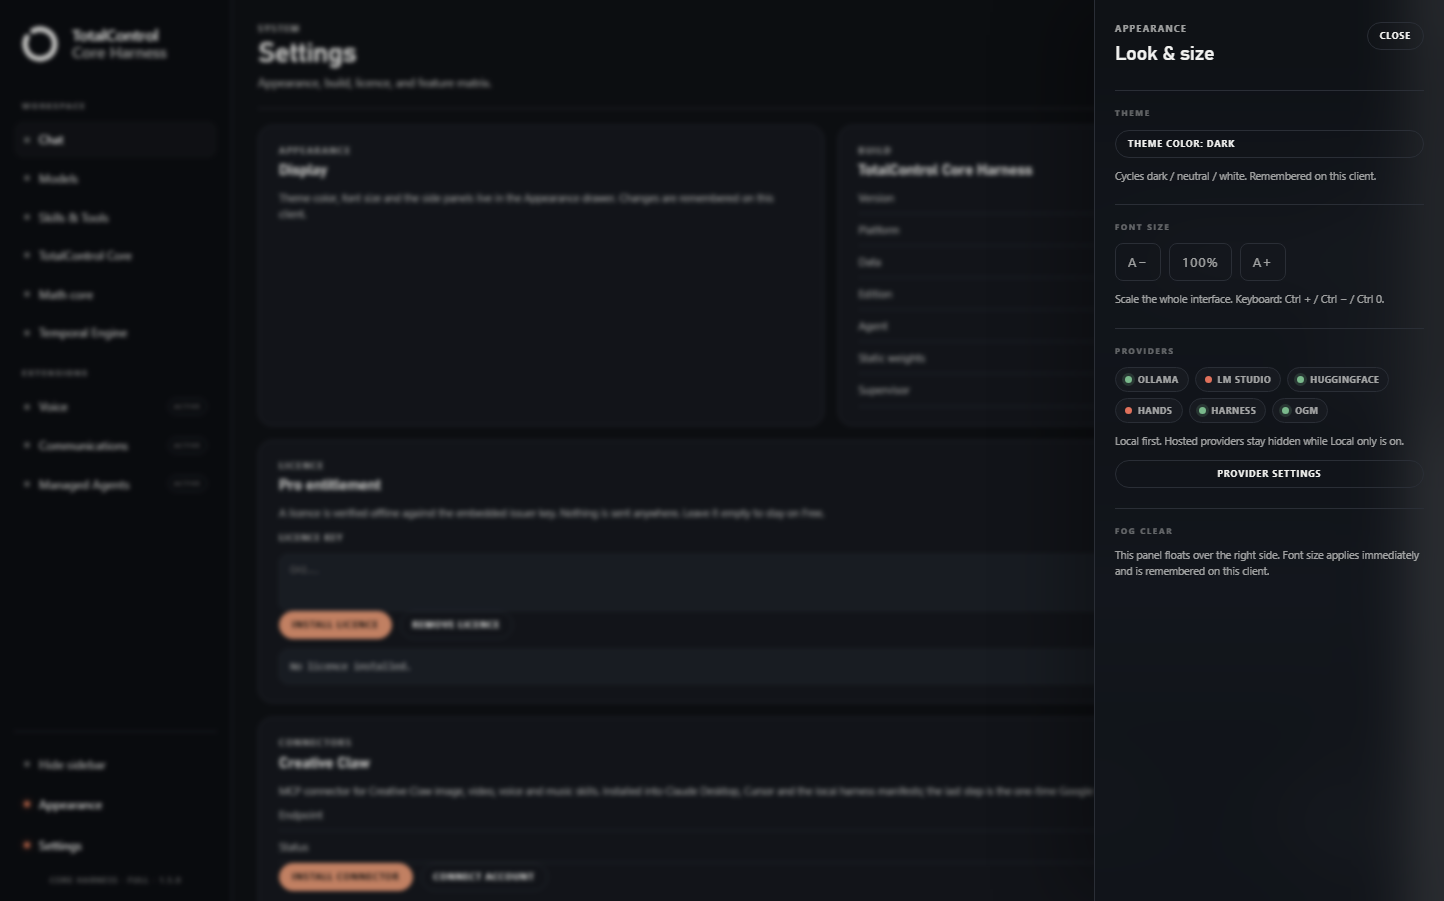
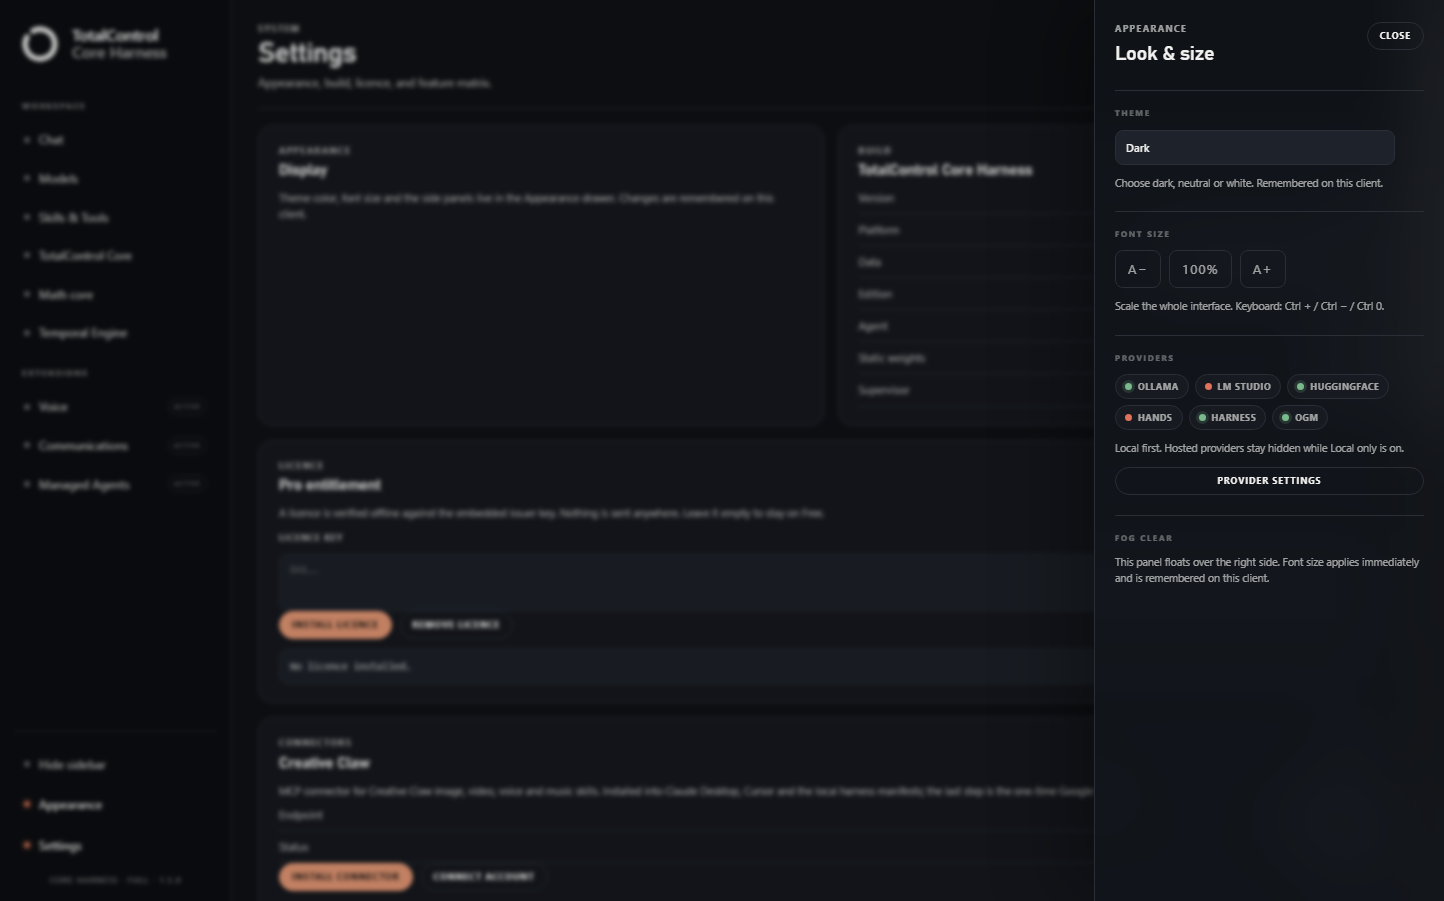
Final harness screens refresh: neutral start, black shots, theme dropdown non-free

diff --git a/screens.html b/screens.html
@@ -1,5 +1,5 @@
 <!DOCTYPE html>
-<html lang="en">
+<html lang="en" data-site-theme="neutral">
 <head>
 <meta charset="UTF-8">
 <meta name="viewport" content="width=device-width, initial-scale=1">
@@ -51,9 +51,9 @@
   main h1,main h2,main h3{color:var(--st-ink) !important}
   main p{color:var(--st-muted)}
   .dl{border-top-color:var(--st-line)}
-  .dl .prod{border:1px solid var(--st-line);background:var(--st-card);backdrop-filter:blur(18px);-webkit-backdrop-filter:blur(18px);color:var(--st-ink);box-shadow:var(--st-shadow)}
-  .dl .prod h2{color:var(--st-ink)}
-  .dl .prod p,.dl .incl li{color:var(--st-muted)}
+  .dl .prod{border:1px solid var(--st-line) !important;background:var(--st-card) !important;backdrop-filter:blur(18px);-webkit-backdrop-filter:blur(18px);color:var(--st-ink) !important;box-shadow:var(--st-shadow) !important}
+  .dl .prod h2{color:var(--st-ink) !important}
+  .dl .prod p,.dl .incl li{color:var(--st-muted) !important}
   .dl .sub{color:var(--st-muted)}
   .btn{appearance:none;text-decoration:none;font:600 13px Inter,"Segoe UI",sans-serif;padding:11px 18px;border-radius:8px;justify-content:center;border:1px solid var(--st-line);background:var(--st-btn);backdrop-filter:blur(12px);-webkit-backdrop-filter:blur(12px);color:var(--st-ink);display:inline-flex;align-items:center;gap:6px;cursor:pointer}
   .btn:hover{border-color:#D97757;color:var(--st-ink)}
@@ -64,14 +64,14 @@
   .dl .prod .btn:not(.primary):hover{border-color:#D97757 !important;color:var(--st-ink) !important}
   footer.site{color:var(--st-muted)}
   .voice-split{display:grid;grid-template-columns:1.35fr .65fr;gap:20px;margin-top:24px;align-items:stretch}
-  .voice-controls{background:var(--st-card);border:1px solid var(--st-line);border-radius:18px;padding:24px;color:var(--st-ink);backdrop-filter:blur(18px);-webkit-backdrop-filter:blur(18px);box-shadow:var(--st-shadow)}
+  .voice-controls{background:var(--st-card) !important;border:1px solid var(--st-line) !important;border-radius:18px;padding:24px;color:var(--st-ink) !important;backdrop-filter:blur(18px);-webkit-backdrop-filter:blur(18px);box-shadow:var(--st-shadow)}
   .voice-controls .eyebrow{color:#d97757}
-  .voice-controls h3{font-size:22px;line-height:1.15;margin:8px 0 14px;letter-spacing:-.02em;color:var(--st-ink)}
+  .voice-controls h3{font-size:22px;line-height:1.15;margin:8px 0 14px;letter-spacing:-.02em;color:var(--st-ink) !important}
   .voice-controls ul{list-style:none;margin:0;padding:0;display:grid;gap:9px}
-  .voice-controls li{position:relative;padding-left:17px;font-size:13px;line-height:1.45;color:var(--st-muted)}
+  .voice-controls li{position:relative;padding-left:17px;font-size:13px;line-height:1.45;color:var(--st-muted) !important}
   .voice-controls li::before{content:"";position:absolute;left:0;top:.55em;width:6px;height:6px;border-radius:50%;background:var(--st-dot)}
   .voice-controls li.on::before{background:#d97757;box-shadow:0 0 7px rgba(217,119,87,.55)}
-  .voice-controls .foot{margin-top:16px;font-size:11px;line-height:1.5;color:var(--st-muted);letter-spacing:.04em}
+  .voice-controls .foot{margin-top:16px;font-size:11px;line-height:1.5;color:var(--st-muted) !important;letter-spacing:.04em}
   .site-ap-btn{position:fixed;right:18px;bottom:18px;z-index:120;appearance:none;border:1px solid rgba(255,255,255,.18);background:rgba(18,20,22,.72);backdrop-filter:blur(18px);-webkit-backdrop-filter:blur(18px);color:#F2F2F0;border-radius:99px;padding:10px 16px;font:600 9px Inter,sans-serif;letter-spacing:.16em;text-transform:uppercase;cursor:pointer;box-shadow:0 12px 40px rgba(0,0,0,.35)}
   .site-ap-btn::before{content:"";display:inline-block;width:6px;height:6px;border-radius:50%;background:#D97757;margin-right:8px;vertical-align:1px;box-shadow:0 0 7px rgba(217,119,87,.6)}
   .site-ap-backdrop{position:fixed;top:58px;left:0;right:0;bottom:0;background:rgba(0,0,0,.25);backdrop-filter:blur(2px);z-index:130;opacity:0;pointer-events:none;transition:opacity .2s}
@@ -87,7 +87,7 @@
   .site-select{appearance:none;width:100%;background:rgba(255,255,255,.06);border:1px solid rgba(255,255,255,.18);color:#F2F2F0;border-radius:8px;padding:11px 12px;font:600 12px Inter,sans-serif;cursor:pointer;outline:none}
   .site-select option{background:#141619;color:#F2F2F0}
   .site-ap .note{font-size:10.5px;line-height:1.5;color:rgba(242,242,240,.55);margin:0}
-  html[data-site-theme="dark"] body{background:radial-gradient(1000px 700px at 12% -10%, rgba(217,119,87,.13), transparent 60%),radial-gradient(900px 650px at 88% 8%, rgba(255,255,255,.075), transparent 60%),#090A0B !important;color:#F2F2F0 !important}
+  main .ds-text-body,.intro p{color:var(--st-muted) !important}\n  .hero .eyebrow{color:#C4684B !important}\n  html[data-site-theme="dark"] body{background:radial-gradient(1000px 700px at 12% -10%, rgba(217,119,87,.13), transparent 60%),radial-gradient(900px 650px at 88% 8%, rgba(255,255,255,.075), transparent 60%),#090A0B !important;color:#F2F2F0 !important}
   html[data-site-theme="neutral"] body{background:radial-gradient(1000px 700px at 12% -10%, rgba(217,119,87,.14), transparent 60%),radial-gradient(900px 650px at 88% 8%, rgba(255,255,255,.20), transparent 60%),#8D9199 !important;color:#14161A !important}
   html[data-site-theme="white"] body{background:radial-gradient(1000px 700px at 12% -10%, rgba(217,119,87,.09), transparent 60%),radial-gradient(900px 650px at 88% 8%, rgba(255,255,255,.7), transparent 60%),#FAF9F5 !important;color:#141413 !important}
   html[data-site-theme="neutral"] .site-ap-btn,html[data-site-theme="white"] .site-ap-btn{background:rgba(18,20,22,.82)}
@@ -123,7 +123,7 @@
       <div class="intro">
         <p class="ds-text-body">The finished TotalControl harness in the Core Harness client. Free is the
           build going online now: microphone input only, with no hands, no voice output and no crawler.
-          Black client shown; Free and Paid start neutral.</p>
+          Black client shown; Free and Paid both start neutral.</p>
       </div>
       <div class="hero-cta">
         <a class="btn primary" href="https://github.com/oroboroslabs-ai/anthropic/releases/download/totalcontrol-core-harness-v1.5.0/TotalControl-Core-Harness-Free-1.5.0.exe">↓&nbsp; Download Free 1.5.0 · Windows</a>
@@ -136,17 +136,17 @@
   <div class="screens-hero">
     <div class="shotgrid">
       <figure class="shot">
-        <img src="assets/screens/full-chat.png" alt="TotalControl Core Harness neutral first-run chat with left rail and Write panel">
+        <img src="assets/screens/full-chat.png" alt="TotalControl Core Harness black client chat with left rail and Write panel">
         <figcaption class="cap"><b>BLACK · CLIENT</b><span>chat</span></figcaption>
       </figure>
       <figure class="shot">
-        <img src="assets/screens/full-appearance.png" alt="TotalControl Core Harness neutral with left rail and fog-clear appearance panel open">
+        <img src="assets/screens/full-appearance.png" alt="TotalControl Core Harness black with left rail and fog-clear appearance panel open">
         <figcaption class="cap"><b>BLACK · BOTH PANELS</b><span>rail + appearance</span></figcaption>
       </figure>
     </div>
 
     <figure class="shot white">
-      <img src="assets/screens/full-chat.png" alt="TotalControl Core Harness neutral first-run chat screen">
+      <img src="assets/screens/full-chat.png" alt="TotalControl Core Harness black client chat screen">
       <figcaption class="cap"><b>BLACK · CHAT</b><span>chat</span></figcaption>
     </figure>
   </div>
@@ -250,17 +250,17 @@
     <select id="siteTheme" class="site-select" title="Theme color">
       <option value="dark">Dark</option>
       <option value="neutral">Neutral</option>
-      <option value="white">White</option>
     </select>
-    <p class="note">All three theme selections. Remembered in this browser. Free has no theme menu.</p>
+    <p class="note">Dark or neutral. Silver is the start. Remembered in this browser. Free has no theme menu.</p>
   </div>
 </aside>
 <script>
 (function () {
   var key = "oa.siteTheme";
   var root = document.documentElement;
-  var saved = "dark";
-  try { saved = localStorage.getItem(key) || "dark"; } catch (e) {}
+  var saved = "neutral";
+  try { saved = localStorage.getItem(key) || "neutral"; } catch (e) {}
+  if (saved === "white") saved = "neutral";
   root.dataset.siteTheme = saved;
   var sel = document.getElementById("siteTheme");
   if (sel) {
@@ -282,6 +282,14 @@
 </script><script src="/shared-header.js" defer></script>
 </body>
 </html>
+
+
+
+
+
+
+
+
 
 
 

diff --git a/shared-header.css b/shared-header.css
@@ -36,10 +36,12 @@ html.light #unifiedHeader nav a::before { background: #B8B5AD; }
 html.light #unifiedHeader nav a:hover::before, html.light #unifiedHeader nav a.uh-here::before { background: #C4684B; box-shadow: 0 0 6px rgba(196,104,75,.45); }
 #unifiedHeader nav a:hover { color: var(--uh-text) !important; background: var(--uh-line) !important; }
 #unifiedHeader nav a.uh-here { color: var(--uh-accent) !important; background: var(--uh-soft) !important; }
-#unifiedHeader .uh-lite { appearance: none; border: 1px solid rgba(110,150,235,.4); background: rgba(46,92,184,.14); color: var(--uh-blue); font: 600 10px 'Inter', -apple-system, BlinkMacSystemFont, 'Segoe UI', sans-serif; letter-spacing: .12em; padding: 7px 12px; border-radius: 8px; cursor: pointer; flex: 0 0 auto; box-shadow: inset 0 1px 0 rgba(255,255,255,.12); }
-#unifiedHeader .uh-lite:hover { background: rgba(46,92,184,.3); }
-html.light #unifiedHeader .uh-lite { background: rgba(44,90,138,.08); border-color: rgba(44,90,138,.4); color: #2C5A8A; }
-html.light #unifiedHeader .uh-lite:hover { background: rgba(44,90,138,.16); }
+#unifiedHeader .uh-lite { appearance: none; border: 0; background: transparent; color: var(--uh-muted); font: 600 9.5px/1.1 'Inter', -apple-system, BlinkMacSystemFont, 'Segoe UI', sans-serif; letter-spacing: .015em; padding: 7px 10px 7px 16px; border-radius: 7px; cursor: pointer; flex: 0 0 auto; box-shadow: none; position: relative; }
+#unifiedHeader .uh-lite::before { content: ""; position: absolute; left: 6px; top: 50%; width: 4px; height: 4px; margin-top: -2px; border-radius: 50%; background: #5C5C58; transition: background .16s ease, box-shadow .16s ease; }
+#unifiedHeader .uh-lite:hover { color: var(--uh-text); background: var(--uh-line); }
+#unifiedHeader .uh-lite:hover::before, #unifiedHeader .uh-lite[aria-pressed="true"]::before { background: var(--uh-accent); box-shadow: 0 0 6px rgba(217,119,87,.55); }
+html.light #unifiedHeader .uh-lite { background: transparent; border: 0; color: var(--uh-muted); }
+html.light #unifiedHeader .uh-lite:hover { background: var(--uh-line); color: var(--uh-text); }
 @media (max-width: 1400px) { #unifiedHeader nav { justify-content: flex-start; } }
 @media (max-width: 1320px) { #unifiedHeader nav a { font-size: 8.8px; letter-spacing: 0; padding: 6px 2px 6px 8px !important; } #unifiedHeader nav a::before { left: 2px; width: 3px; height: 3px; margin-top: -1.5px; } }
 @media (max-width: 1180px) { #unifiedHeader nav a { font-size: 8.5px; padding: 6px 2px 6px 7px !important; } }
@@ -62,6 +64,7 @@ body:has(> header.nav) { padding-top: 0 !important; }
 }
 .top-bar, .main-header { display: none !important; }
 header.top-bar, header.main-header { display: none !important; }
+
 
 
 

diff --git a/shop.html b/shop.html
@@ -250,7 +250,7 @@
             <div class="prod">
                 <div class="tag2">Appearance panel</div>
                 <img src="assets/screens/full-appearance.png" alt="Fog-clear appearance panel with font size and rail controls" style="width:100%;border-radius:14px;border:1px solid rgba(255,255,255,.14);margin:10px 0">
-                <p class="note">Theme color, font size and the side panels live in a fog-clear panel that opens from the left rail and floats over the right. Theme color cycles dark, neutral or white and is remembered per client. Ctrl + / Ctrl − / Ctrl 0. Hide sidebar collapses the rail; Ctrl+B reopens it.</p>
+                <p class="note">Font size and the side panels live in a fog-clear panel that opens from the left rail and floats over the right. Paid, Full and Architect choose the theme color there in a dropdown. Free has no theme control. Ctrl + / Ctrl − / Ctrl 0. Hide sidebar collapses the rail; Ctrl+B reopens it.</p>
             </div>
             <div class="prod">
                 <div class="tag2">White theme</div>
@@ -338,4 +338,7 @@
 <script src="/shared-header.js" defer></script>
 </body>
 </html>
+
+
+
 

diff --git a/set/index.html b/set/index.html
@@ -192,3 +192,5 @@
 
 
 
+
+
